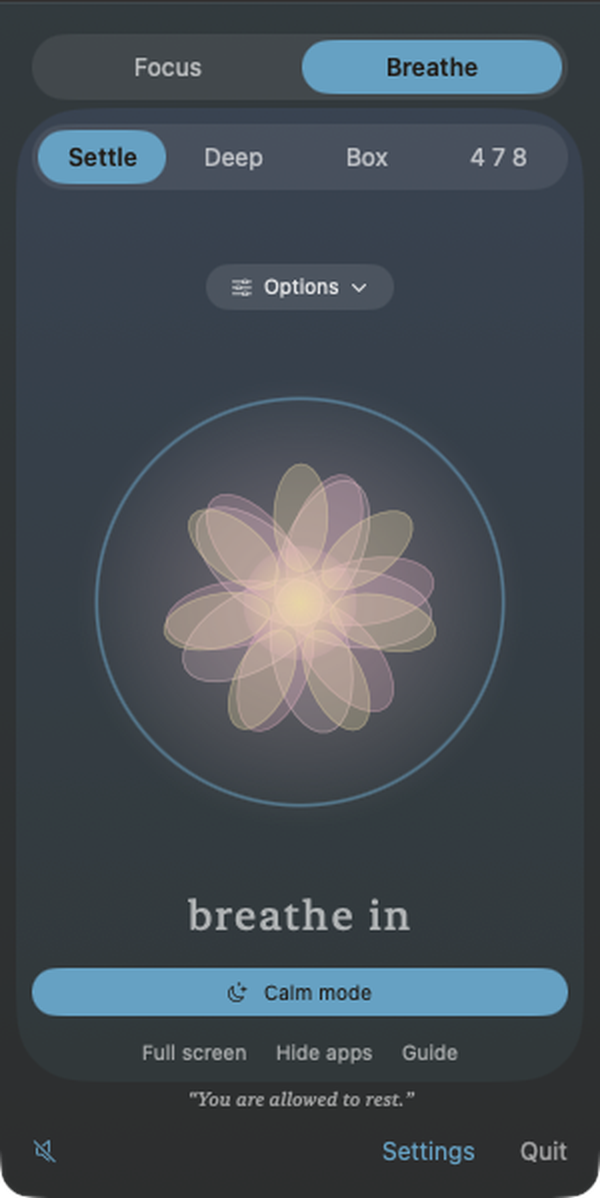
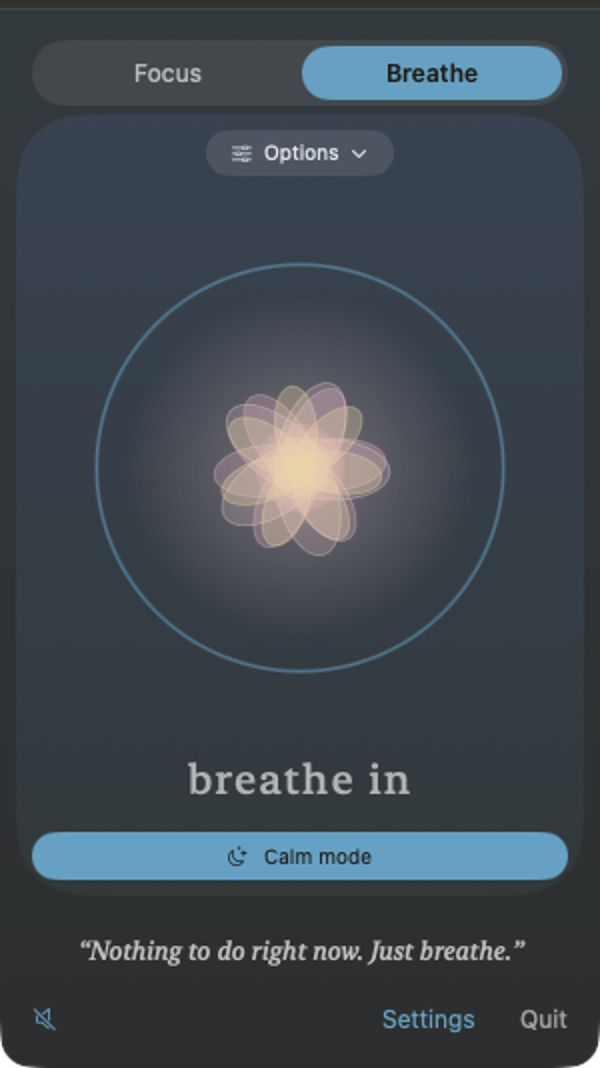
QC: clearer Breathe settings, restore screen on quit, sound flag fix, updated screenshots

diff --git a/Sources/ContentView.swift b/Sources/ContentView.swift
@@ -221,7 +221,7 @@ struct Welcome: View {
             }
 
             VStack(spacing: 4) {
-                Text("Sound is off until you turn it on. Everything is yours to set up in [**Settings**](tarn://settings).")
+                Text("Focus is silent. Breathe plays a soft sound you can switch off. Everything is yours to set up in [**Settings**](tarn://settings).")
                     .font(.caption).foregroundStyle(.secondary)
                     .multilineTextAlignment(.center)
                     .fixedSize(horizontal: false, vertical: true)
@@ -532,6 +532,7 @@ struct SettingsTab: View {
     @AppStorage("keepSoundAfterSession") private var keepSound = false
     @AppStorage("breatheSound") private var breatheSound = true
     @AppStorage("guideMe") private var guideMe = false
+    @AppStorage("breathPattern") private var breathPattern = "settle"
     @AppStorage("hideOthersWhenBreathing") private var hideOthers = true
     @AppStorage("soundEnabled") private var soundEnabled = false
     @AppStorage("soundScope") private var scopeRaw = SoundScope.always.rawValue
@@ -711,11 +712,38 @@ struct SettingsTab: View {
 
     private var breathe: some View {
         VStack(alignment: .leading, spacing: 12) {
-            GroupBox("Visual") {
-                PillPicker(items: BreathStyle.allCases.map(\.rawValue), selection: $breathStyle) { $0 }
-                    .padding(.vertical, 4)
+            GroupBox("Sound") {
+                VStack(alignment: .leading, spacing: 6) {
+                    Toggle("Play a soft sound when I breathe", isOn: $breatheSound)
+                    Toggle("Keep the sound playing when a session or Calm ends", isOn: $keepSound)
+                    Text("The sound starts when you open Breathe, begin a session or use Calm mode, and fades out when a session ends. Turn it off here, with the speaker button, or in the Options menu. Pick or mix sounds from Options on the Breathe screen.")
+                        .font(.caption).foregroundStyle(.secondary).fixedSize(horizontal: false, vertical: true)
+                }.padding(.vertical, 4)
             }
-            GroupBox("Calm mode") {
+            GroupBox("Look and rhythm") {
+                VStack(alignment: .leading, spacing: 8) {
+                    PillPicker(items: BreathStyle.allCases.map(\.rawValue), selection: $breathStyle) { $0 }
+                    Picker("Rhythm", selection: $breathPattern) {
+                        ForEach(BreathPattern.all) { Text("\($0.name): \($0.short)").tag($0.id) }
+                    }
+                    Toggle("Warmer colors in the evening", isOn: $eveningWarmth)
+                    Toggle("Show gentle written prompts while I breathe", isOn: $guideMe)
+                }.padding(.vertical, 4)
+            }
+            GroupBox("Screen and apps") {
+                VStack(alignment: .leading, spacing: 8) {
+                    Toggle("Allow full screen and hiding apps", isOn: $allowTakeover)
+                    Group {
+                        Toggle("Offer full screen when I turn sound on", isOn: $offerFullScreen)
+                        Toggle("Hide other apps in full screen", isOn: $hideOthers)
+                        Toggle("Fill the screen on Focus breaks", isOn: Binding(get: { timer.fullScreenBreaks }, set: { timer.objectWillChange.send(); timer.fullScreenBreaks = $0 }))
+                    }
+                    .disabled(!allowTakeover)
+                    Text("Off means Tarn never covers your screen or hides another app. Apps are only ever hidden, never quit, and they come back when you leave.")
+                        .font(.caption).foregroundStyle(.secondary).fixedSize(horizontal: false, vertical: true)
+                }.padding(.vertical, 4)
+            }
+            GroupBox("Calm mode shortcuts") {
                 VStack(alignment: .leading, spacing: 8) {
                     TextField("Shortcut when Calm starts", text: $calmStart)
                     TextField("Shortcut when Calm ends", text: $calmEnd)
@@ -727,37 +755,7 @@ struct SettingsTab: View {
                         }
                         .buttonStyle(CapsuleButtonStyle(small: true))
                     }
-                    Text("To silence notifications, make two Shortcuts with the Set Focus action: one that turns Do Not Disturb on and one that turns it off. Leave these blank to skip.")
-                        .font(.caption).foregroundStyle(.secondary).fixedSize(horizontal: false, vertical: true)
-                    Toggle("Warmer colors in the evening", isOn: $eveningWarmth)
-                    Toggle("Keep sound playing after Calm or a session ends", isOn: $keepSound)
-
-                }.padding(.vertical, 4)
-            }
-            GroupBox("Screen and apps") {
-                VStack(alignment: .leading, spacing: 8) {
-                    Toggle("Allow full screen and hiding apps", isOn: $allowTakeover)
-                    Group {
-                        Toggle("Offer full screen when sounds start", isOn: $offerFullScreen)
-                        Toggle("Hide other apps in full screen", isOn: $hideOthers)
-                        Toggle("Fill the screen on breaks", isOn: Binding(get: { timer.fullScreenBreaks }, set: { timer.objectWillChange.send(); timer.fullScreenBreaks = $0 }))
-                    }
-                    .disabled(!allowTakeover)
-                    Text("Off means Tarn never covers your screen or hides another app. Apps are only ever hidden, never quit, and they come back when you leave.")
-                        .font(.caption).foregroundStyle(.secondary).fixedSize(horizontal: false, vertical: true)
-                }.padding(.vertical, 4)
-            }
-            GroupBox("Guidance") {
-                VStack(alignment: .leading, spacing: 4) {
-                    Toggle("Show gentle prompts while I breathe", isOn: $guideMe)
-                    Text("Short written lines that change every half minute. Tarn never speaks.")
-                        .font(.caption).foregroundStyle(.secondary).fixedSize(horizontal: false, vertical: true)
-                }.padding(.vertical, 4)
-            }
-            GroupBox("Sound") {
-                VStack(alignment: .leading, spacing: 6) {
-                    Toggle("Play a soft sound when I breathe", isOn: $breatheSound)
-                    Text("Starts when you open Breathe, begin a session or use Calm mode. On by default, so it feels relaxing. Turn it off here, or with the speaker button in Calm mode and the Options menu. Mix your own on the Sounds tab.")
+                    Text("Optional. To silence notifications, make two Shortcuts with the Set Focus action: one that turns Do Not Disturb on and one that turns it off. Leave these blank to skip.")
                         .font(.caption).foregroundStyle(.secondary).fixedSize(horizontal: false, vertical: true)
                 }.padding(.vertical, 4)
             }
@@ -829,7 +827,7 @@ enum HelpContent {
             ("What does Hide apps do?", "It hides other apps' windows so you can breathe. It never quits anything. Press Bring back, or start a focus round, and they return. You can switch full screen and hiding off completely in Breathe settings."),
         ]),
         ("Sounds", [
-            ("How do I turn sounds on?", "In Focus, open the Sounds tab. In Breathe, open Options, then Sound or Mix sounds. Pick a preset or move a slider. Up to three sounds play at once. A fade out timer can stop them for you. Sounds are off until you choose them."),
+            ("How do I turn sounds on?", "In Focus, open the Sounds tab. In Breathe, open Options, then Sound or Mix sounds. Pick a preset or move a slider. Up to three sounds play at once. A fade out timer can stop them for you. Focus is silent until you turn sounds on. Breathe plays a soft sound by default, and you can switch it off in Settings."),
         ]),
         ("Good to know", [
             ("I cannot find the icon.", "On some Macs the notch or a crowded menu bar hides it. Open Settings, then Open in a window, or turn on Show Tarn in the Dock."),

diff --git a/Sources/AppModel.swift b/Sources/AppModel.swift
@@ -1,5 +1,6 @@
 import Foundation
 import AppKit
+import Combine
 
 /// One shared instance of the timer and sound engine, so the menu bar UI and URL commands drive the same state.
 @MainActor
@@ -9,8 +10,18 @@ final class AppModel {
     let sound = SoundEngine()
     private var fullScreenForBreak = false
 
+    private var soundWatch: AnyCancellable?
+
     private init() {
         timer.onStateChange = { [weak self] in self?.timerChanged() }
+        // Once the sound stops for any reason, it is no longer "Breathe's" sound, so Focus never stops a mix you started later.
+        soundWatch = sound.$isPlaying.sink { [weak self] playing in if !playing { self?.startedForBreathe = false } }
+    }
+
+    /// Brings every hidden app back and drops the overlay, so quitting Tarn never leaves your screen changed.
+    func restoreScreen() {
+        BreatheOverlay.shared.close("quit")
+        ScreenClearer.shared.restore()
     }
 
     /// Keeps sound and full screen breathing in step with the timer, whatever started the change (window, shortcut or tarnctl).
@@ -105,6 +116,10 @@ final class AppDelegate: NSObject, NSApplicationDelegate {
         if UserDefaults.standard.object(forKey: "welcomed") == nil {
             DispatchQueue.main.asyncAfter(deadline: .now() + 0.6) { WindowOpener.shared.show() }
         }
+    }
+
+    func applicationWillTerminate(_ notification: Notification) {
+        MainActor.assumeIsolated { AppModel.shared.restoreScreen() }
     }
 
     func applicationShouldHandleReopen(_ sender: NSApplication, hasVisibleWindows flag: Bool) -> Bool {

diff --git a/Sources/BreatheOverlay.swift b/Sources/BreatheOverlay.swift
@@ -30,14 +30,14 @@ final class BreatheOverlay {
             }
             hidden.forEach { $0.hide() }
         }
-        for (index, screen) in NSScreen.screens.enumerated() {
+        for screen in NSScreen.screens {
             let w = OverlayWindow(contentRect: screen.frame, styleMask: .borderless, backing: .buffered, defer: false)
             w.onEscape = { [weak self] in self?.close("escape or click") }
             w.level = .screenSaver
             w.backgroundColor = .clear
             w.isOpaque = false
             w.collectionBehavior = [.canJoinAllSpaces, .fullScreenAuxiliary]
-            let host = FirstMouseHostingView(rootView: OverlayView(speaks: index == 0, onClose: { [weak self] in self?.close("close button") }))
+            let host = FirstMouseHostingView(rootView: OverlayView(onClose: { [weak self] in self?.close("close button") }))
             host.sizingOptions = []          // the window decides the size, never the content
             w.contentView = host
             w.setFrame(screen.frame, display: true)
@@ -109,7 +109,6 @@ final class OverlayWindow: NSWindow {
 
 struct OverlayView: View {
     @ObservedObject private var sound = AppModel.shared.sound
-    let speaks: Bool
     let onClose: () -> Void
     @AppStorage("breathPattern") private var patternID = "settle"
     @AppStorage("guideMe") private var guideMe = false

diff --git a/docs/MANUAL.md b/docs/MANUAL.md
@@ -45,7 +45,7 @@ It hides other apps' windows so you can breathe. It never quits anything. Press 
 ## Sounds
 
 **How do I turn sounds on?**  
-In Focus, open the Sounds tab. In Breathe, open Options, then Sound or Mix sounds. Pick a preset or move a slider. Up to three sounds play at once. A fade out timer can stop them for you. Sounds are off until you choose them.
+In Focus, open the Sounds tab. In Breathe, open Options, then Sound or Mix sounds. Pick a preset or move a slider. Up to three sounds play at once. A fade out timer can stop them for you. Focus is silent until you turn sounds on. Breathe plays a soft sound by default, and you can switch it off in Settings, under Breathe.
 
 
 ## Good to know
